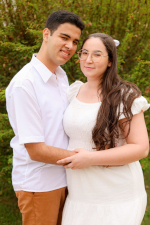
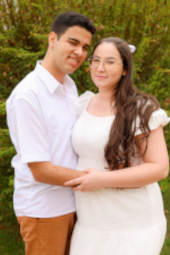
aa

diff --git a/index.php b/index.php
@@ -46,7 +46,7 @@
             <article id="n-hist">
                 <div id="texto01">
                     <p>
-                        <img id="img01-texto" src="imagens/img01a.jpeg">
+                        <img id="img01-texto" style='width=auto; height=auto' src="imagens/img01a.jpeg">
                         <a id="espaco">///</a>Bom, está história poderia começar com um Era uma Vez... Mas vamos fugir um pouco ao clichê, Deus alinhou tudo em nossas vidas, planejou detalhe por detalhe e no fim aqui estamos nós prestes a comemorar este momento mais que especial.
                         
                         <br> 
